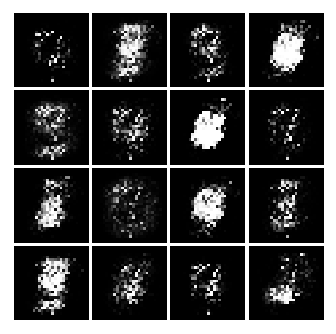
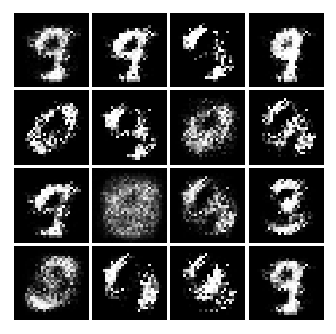
broken implementation of importing our dataset

diff --git a/GAN.py b/GAN.py
@@ -1,9 +1,31 @@
 import tensorflow as tf
-from tensorflow.examples.tutorials.mnist import input_data
+# from tensorflow.examples.tutorials.mnist import input_data
 import numpy as np
 import matplotlib.pyplot as plt
 import matplotlib.gridspec as gridspec
 import os
+
+
+# Make a queue of file names including all the JPEG images files in the relative
+# image directory.
+filename_queue = tf.train.string_input_producer("./data/")
+
+# Read an entire image file which is required since they're JPEGs, if the images
+# are too large they could be split in advance to smaller files or use the Fixed
+# reader to split up the file.
+image_reader = tf.WholeFileReader()
+
+# Read a whole file from the queue, the first returned value in the tuple is the
+# filename which we are ignoring.
+_, image_file = image_reader.read(filename_queue)
+
+# Decode the image as a JPEG file, this will turn it into a Tensor which we can
+# then use in training.
+input_data = tf.image.decode_jpeg(image_file, channels=1)
+
+input_data = tf.cast(input_data, tf.float32)
+
+# 8000 training and 5000 tests
 
 
 def xavier_init(size):
@@ -12,12 +34,12 @@ def xavier_init(size):
     return tf.random_normal(shape=size, stddev=xavier_stddev)
 
 
-X = tf.placeholder(tf.float32, shape=[None, 784])
+X = tf.placeholder(tf.float32, shape=[None, 62500])
 
-D_W1 = tf.Variable(xavier_init([784, 128]))
-D_b1 = tf.Variable(tf.zeros(shape=[128]))
+D_W1 = tf.Variable(xavier_init([62500, 256]))
+D_b1 = tf.Variable(tf.zeros(shape=[256]))
 
-D_W2 = tf.Variable(xavier_init([128, 1]))
+D_W2 = tf.Variable(xavier_init([256, 1]))
 D_b2 = tf.Variable(tf.zeros(shape=[1]))
 
 theta_D = [D_W1, D_W2, D_b1, D_b2]
@@ -25,11 +47,11 @@ theta_D = [D_W1, D_W2, D_b1, D_b2]
 
 Z = tf.placeholder(tf.float32, shape=[None, 100])
 
-G_W1 = tf.Variable(xavier_init([100, 128]))
-G_b1 = tf.Variable(tf.zeros(shape=[128]))
+G_W1 = tf.Variable(xavier_init([100, 256]))
+G_b1 = tf.Variable(tf.zeros(shape=[256]))
 
-G_W2 = tf.Variable(xavier_init([128, 784]))
-G_b2 = tf.Variable(tf.zeros(shape=[784]))
+G_W2 = tf.Variable(xavier_init([256, 62500]))
+G_b2 = tf.Variable(tf.zeros(shape=[62500]))
 
 theta_G = [G_W1, G_W2, G_b1, G_b2]
 
@@ -65,7 +87,7 @@ def plot(samples):
         ax.set_xticklabels([])
         ax.set_yticklabels([])
         ax.set_aspect('equal')
-        plt.imshow(sample.reshape(28, 28), cmap='Greys_r')
+        plt.imshow(sample.reshape(250, 250), cmap='Greys_r')
 
     return fig
 
@@ -90,7 +112,7 @@ G_solver = tf.train.AdamOptimizer().minimize(G_loss, var_list=theta_G)
 mb_size = 128
 Z_dim = 100
 
-mnist = input_data.read_data_sets('../../MNIST_data', one_hot=True)
+# mnist = input_data.read_data_sets('../../MNIST_data', one_hot=True)
 
 sess = tf.Session()
 sess.run(tf.global_variables_initializer())
@@ -100,7 +122,7 @@ if not os.path.exists('out/'):
 
 i = 0
 
-for it in range(1000000):
+for it in range(10000):
     if it % 1000 == 0:
         samples = sess.run(G_sample, feed_dict={Z: sample_Z(16, Z_dim)})
 
@@ -109,7 +131,7 @@ for it in range(1000000):
         i += 1
         plt.close(fig)
 
-    X_mb, _ = mnist.train.next_batch(mb_size)
+    X_mb = tf.train.batch([input_data], batch_size=mb_size)
 
     _, D_loss_curr = sess.run([D_solver, D_loss], feed_dict={X: X_mb, Z: sample_Z(mb_size, Z_dim)})
     _, G_loss_curr = sess.run([G_solver, G_loss], feed_dict={Z: sample_Z(mb_size, Z_dim)})
